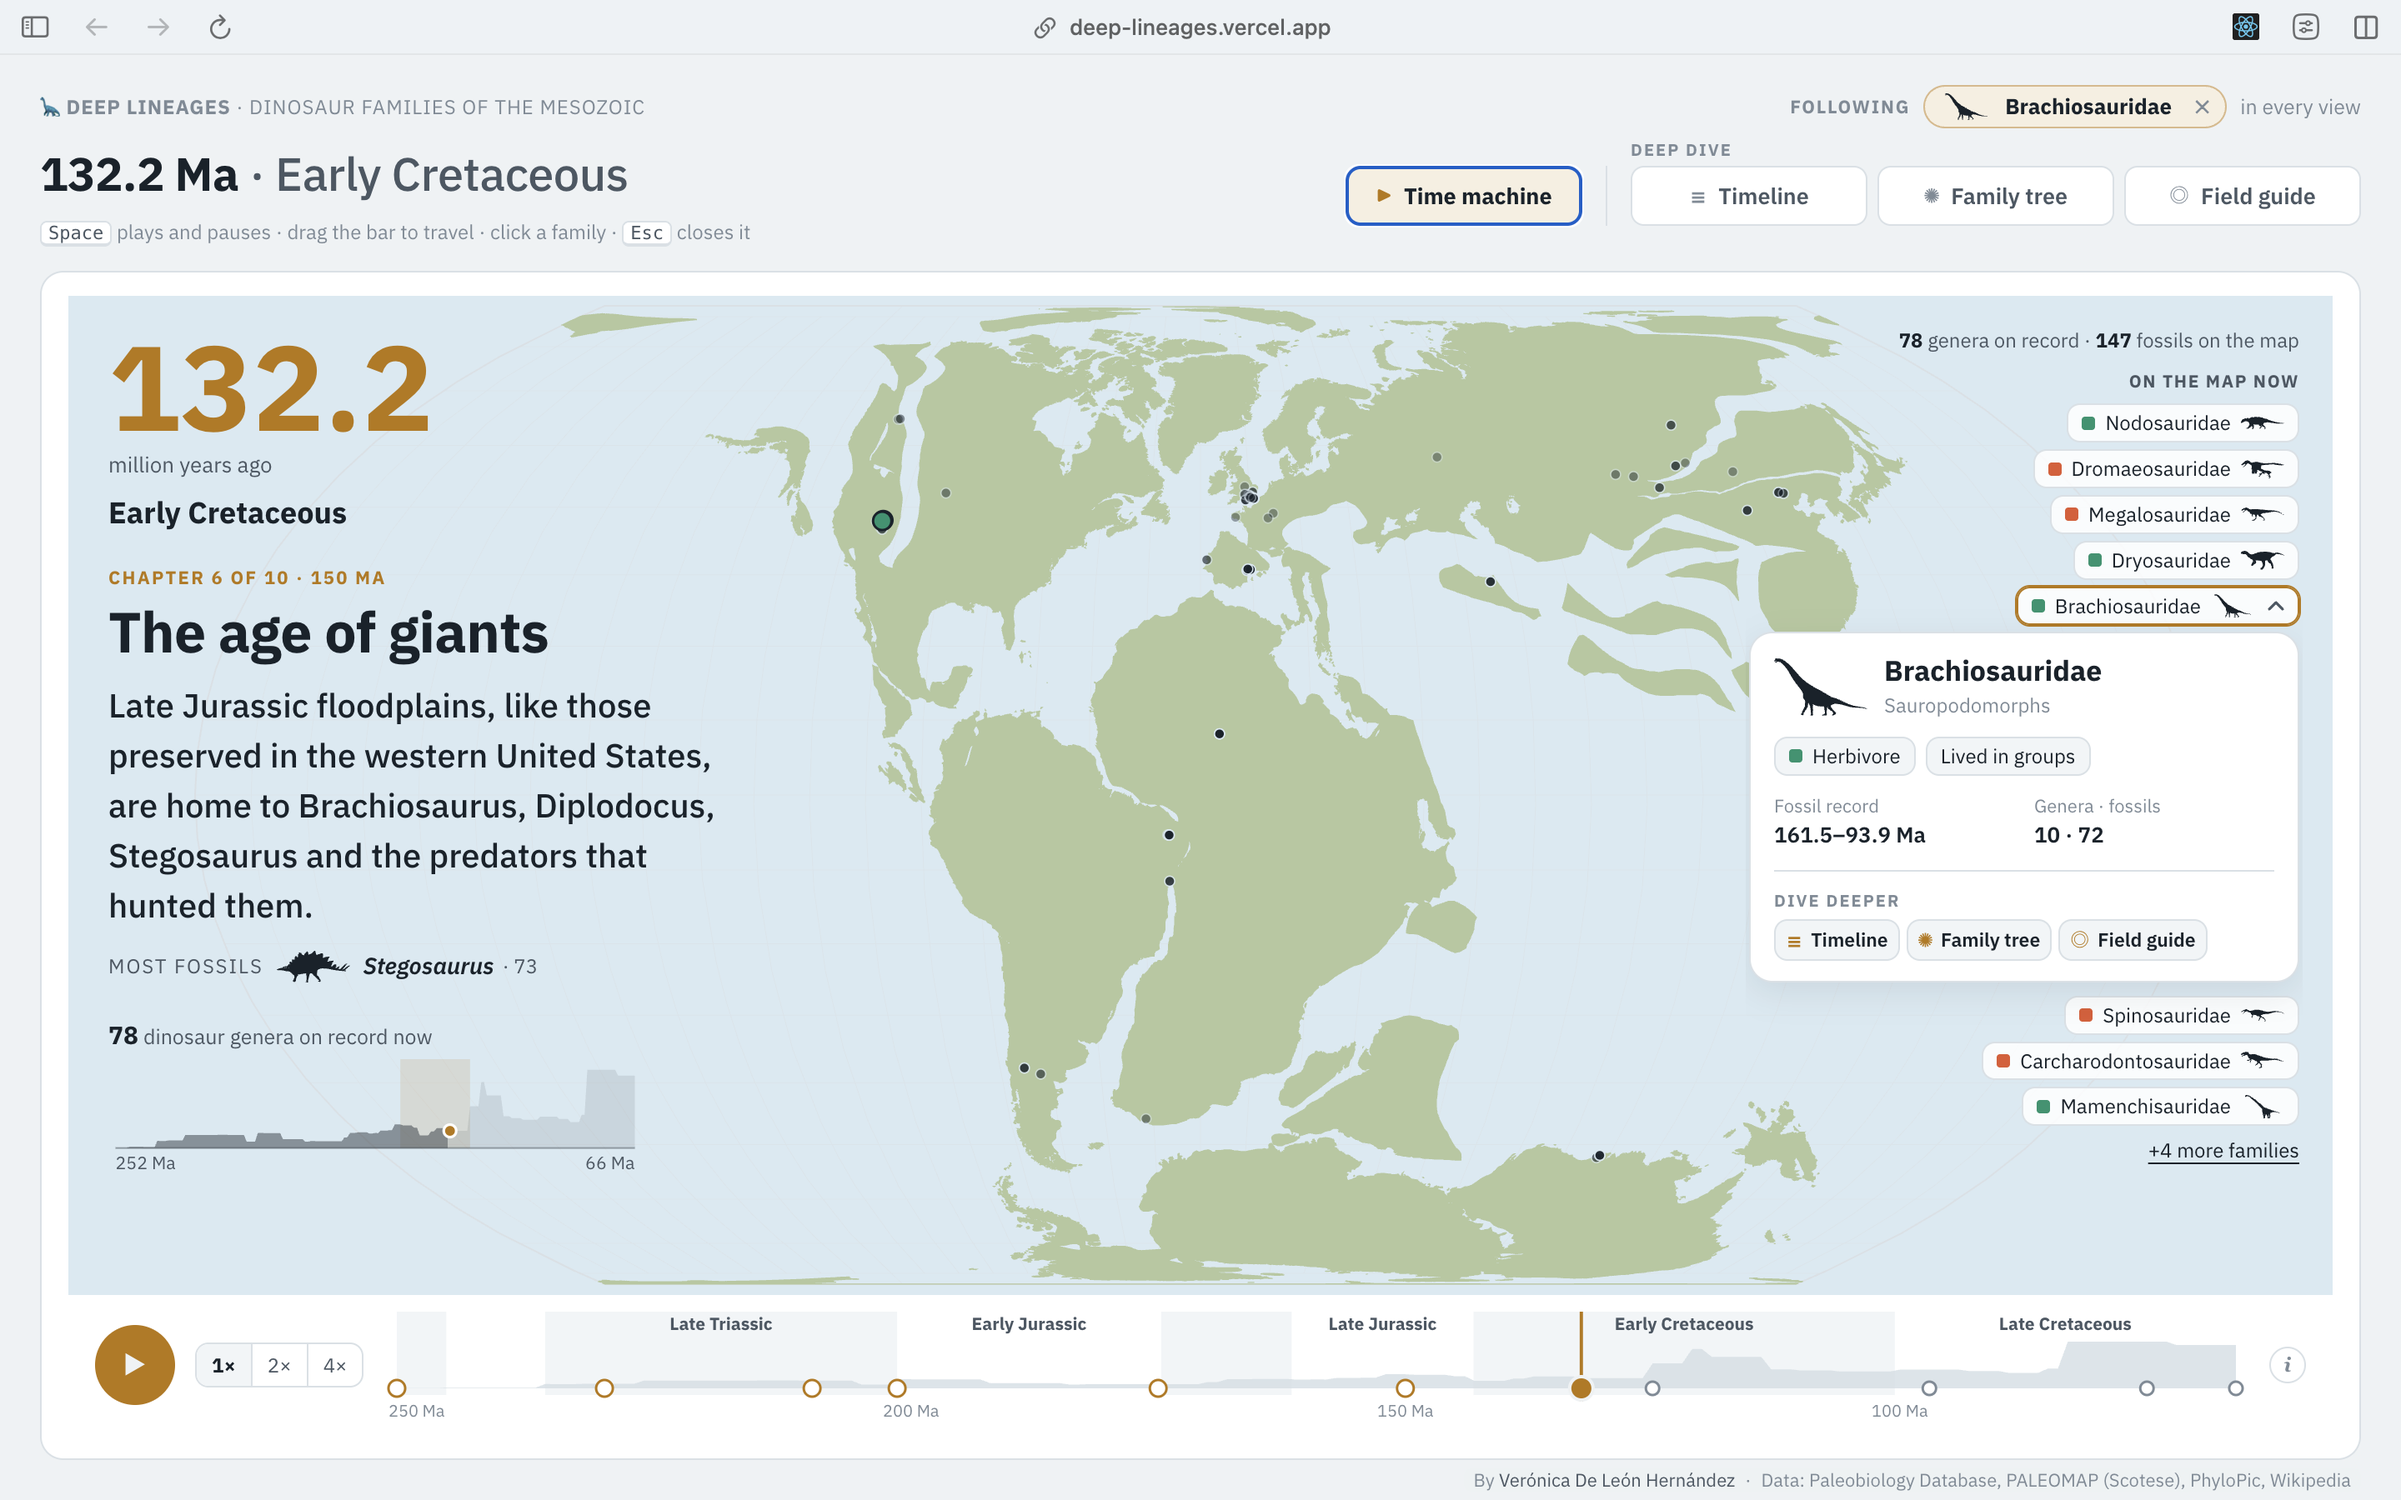
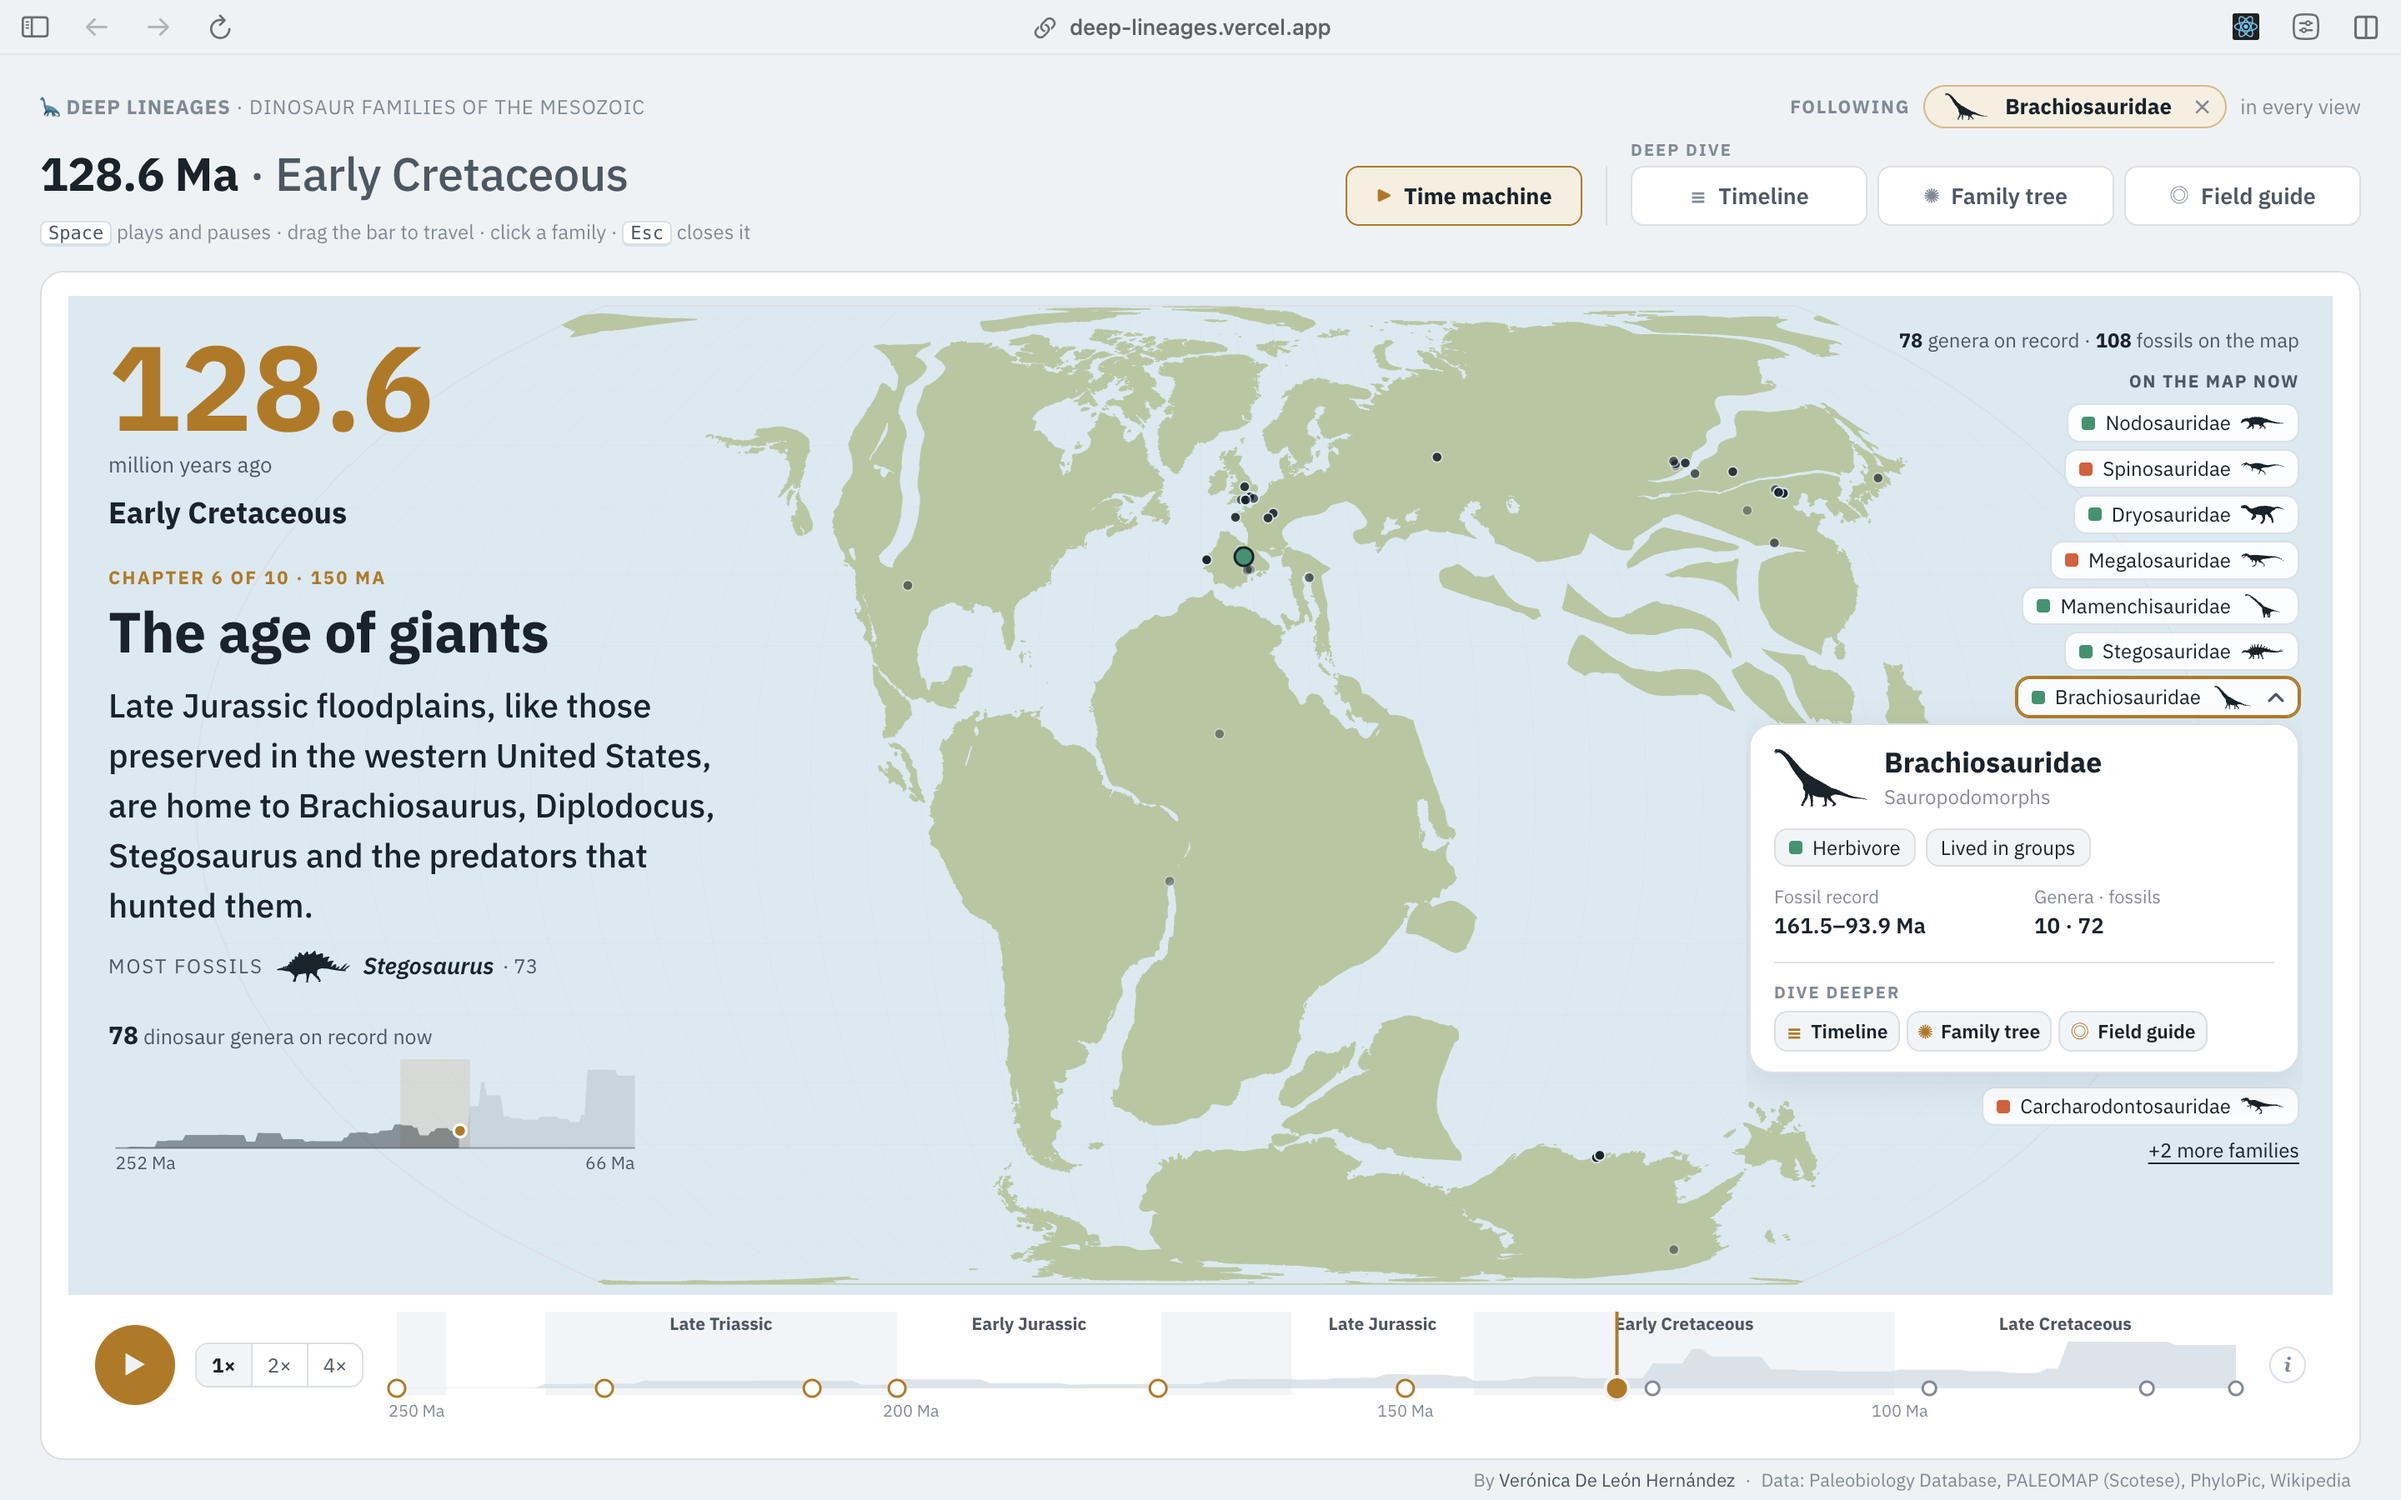
Time machine: a followed family without fossils now isn't listed
"On the map now" only lists families with fossils at the current time.
When the followed one has none, a note says so and links to the nearest
time it does. Updated hero screenshot.

Claude-Session: https://claude.ai/code/session_01BixjH9eFwmknoxsqkNzn9b

diff --git a/app/src/components/TimeMachine.tsx b/app/src/components/TimeMachine.tsx
@@ -99,9 +99,15 @@ export function TimeMachine() {
   const selAround = around.find((x) => x.f.family === state.selected);
   if (selAround && !shown.includes(selAround)) shown.push(selAround);
   const hidden = around.length - shown.length;
-  // chosen in another view, with no fossils right now: it still gets its row (with no count) and its card
-  const selFam = state.selected != null && !selAround ? data.families.find((x) => x.family === state.selected) : undefined;
-  if (selFam) shown.unshift({ f: selFam, n: 0 });
+  // followed (chosen in another view) but with no fossils right now: not "on the map"; a note says when it was
+  const absent = state.selected != null && !selAround;
+  const absentWhen = useMemo(() => {
+    if (!absent) return null;
+    const mine = data.fossils.filter((fo) => fo.family === state.selected && (!state.genus || fo.genus === state.genus));
+    if (!mine.length) return null;
+    const near = mine.reduce((b, fo) => (Math.abs(fo.mid - t) < Math.abs(b - t) ? fo.mid : b), mine[0].mid);
+    return Math.round(near);
+  }, [absent, data.fossils, state.selected, state.genus, tKey]); // eslint-disable-line react-hooks/exhaustive-deps
   const genera = data.diversity.find((d) => d.ma === Math.round(t))?.genera ?? 0;
 
   const chapter = chapterAt(t);
@@ -151,6 +157,12 @@ export function TimeMachine() {
         <div className={s.right}>
           <span className={s.counter}><b>{fNum(genera)}</b> genera on record · <b>{fNum(nFossils)}</b> fossils on the map</span>
           <div className={s.around}>
+            {absent && (
+              <p className={s.absent}>
+                <b>{state.genus ? <i>{state.genus}</i> : state.selected}</b> has no fossils around {fMa(Math.round(t))} Ma.
+                {absentWhen != null && <> <button onClick={() => dispatch({ type: "time", t: absentWhen })}>Go to {fMa(absentWhen)} Ma →</button></>}
+              </p>
+            )}
             <span className={s.aroundLabel}>On the map now</span>
             {around.length === 0 && <span className={s.aroundNone}>No fossils of these families in this slice of time</span>}
             {/* the selected family stays in the list (even past the limit) and its card unfolds right below it */}

diff --git a/app/src/components/TimeMachine.module.css b/app/src/components/TimeMachine.module.css
@@ -83,6 +83,10 @@
 .aroundNone { font-size: 12px; color: var(--map-ink-2); max-width: 200px; text-align: right; }
 .around .who { background: color-mix(in srgb, var(--surface) 85%, transparent); padding: 2px 8px; flex: none; }
 .whoChev { width: 10px; height: 6px; fill: none; stroke: var(--text-2); stroke-width: 1.6; stroke-linecap: round; stroke-linejoin: round; margin-left: 2px; }
+.absent { margin: 0 0 6px; max-width: 300px; pointer-events: auto; text-align: right; font-size: 12.5px; line-height: 1.45; color: var(--text-2); background: var(--surface); border: 1px solid var(--line); border-radius: 8px; padding: 8px 10px; }
+.absent b { color: var(--text); }
+.absent button { font: inherit; font-weight: 650; color: var(--cursor); background: none; border: 0; padding: 0; cursor: pointer; }
+.absent button:hover { text-decoration: underline; text-underline-offset: 3px; }
 .aroundMore { font: inherit; font-size: 12px; color: var(--map-ink); background: none; border: 0; padding: 2px 0; cursor: pointer; text-decoration: underline; text-underline-offset: 3px; flex: none; }
 .aroundMore:hover { color: var(--cursor); }
 
